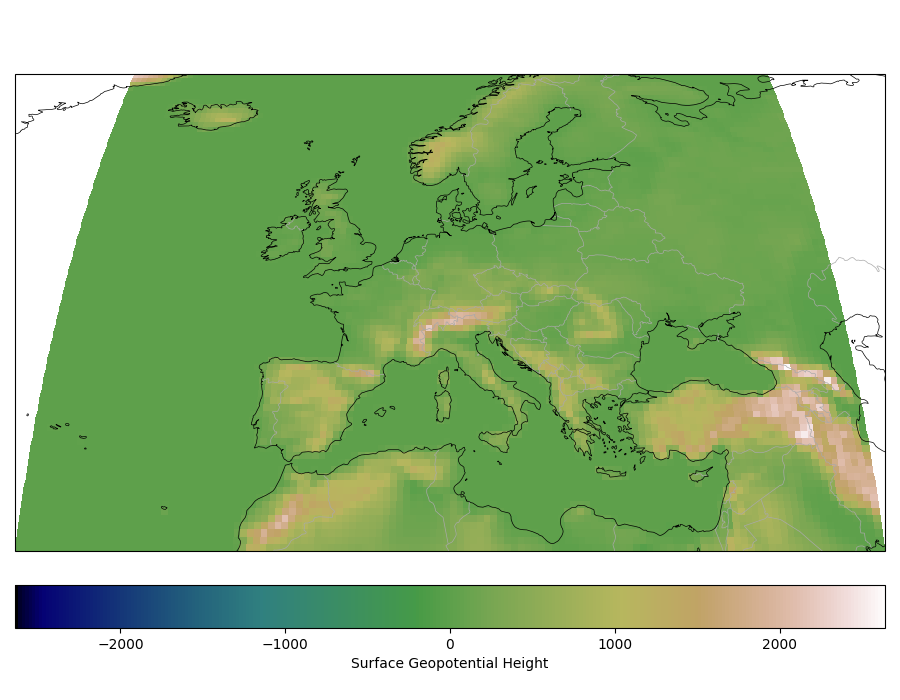
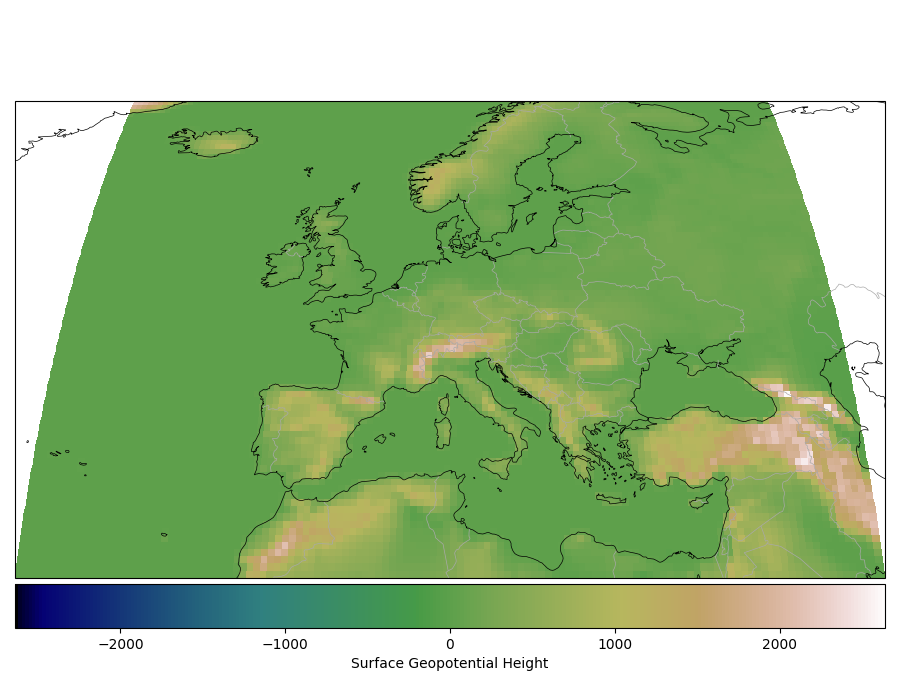
changed bounding box for colobar in leaf graphs

diff --git a/backgroundgraphs/leafindexjuly.py b/backgroundgraphs/leafindexjuly.py
@@ -12,7 +12,7 @@ miscer = ["Met_LAI", "Met_PHIS"]
 plotargs = [["Leaf Area Index (July)", "BuGn", "leafareaindexjuly"], ["Surface Geopotential Height", "gist_earth", "altitudejuly"]]
 
 # Which one would you like to plot: 0 Leaf Index, 1 Altitude
-ploter = 1
+ploter = 0
 
 # For loop to iterate through each type and through each variable withing each type
 fig, ax = plt.subplots(1, 1, figsize= [9, 7], subplot_kw={"projection": ccrs.EqualEarth(central_longitude=10)})
@@ -41,7 +41,7 @@ damean.plot(ax=ax,
                 "label": plotargs[ploter][0],
                 # "aspect": 40,
                 "location": "bottom",
-                "pad": 0.05,
+                "pad": 0.01,
                 # "shrink": 0.4,
             })
 

diff --git a/backgroundgraphs/leafindex_altitude.py b/backgroundgraphs/leafindex_altitude.py
@@ -10,7 +10,7 @@ miscer = ["Met_LAI", "Met_PHIS"]
 plotargs = [["Leaf Area Index", "BuGn", "leafareaindex"], ["Surface Geopotential Height", "terrain", "altitude"]]
 
 # Which one would you like to plot: 0 Leaf Index, 1 Altitude
-ploter = 1
+ploter = 0
 
 # For loop to iterate through each type and through each variable withing each type
 fig, ax = plt.subplots(1, 1, figsize= [9, 7], subplot_kw={"projection": ccrs.EqualEarth(central_longitude=10)})
@@ -39,7 +39,7 @@ damean.plot(ax=ax,
                 "label": plotargs[ploter][0],
                 # "aspect": 40,
                 "location": "bottom",
-                "pad": 0.05,
+                "pad": 0.01,
                 # "shrink": 0.4,
             })
 
